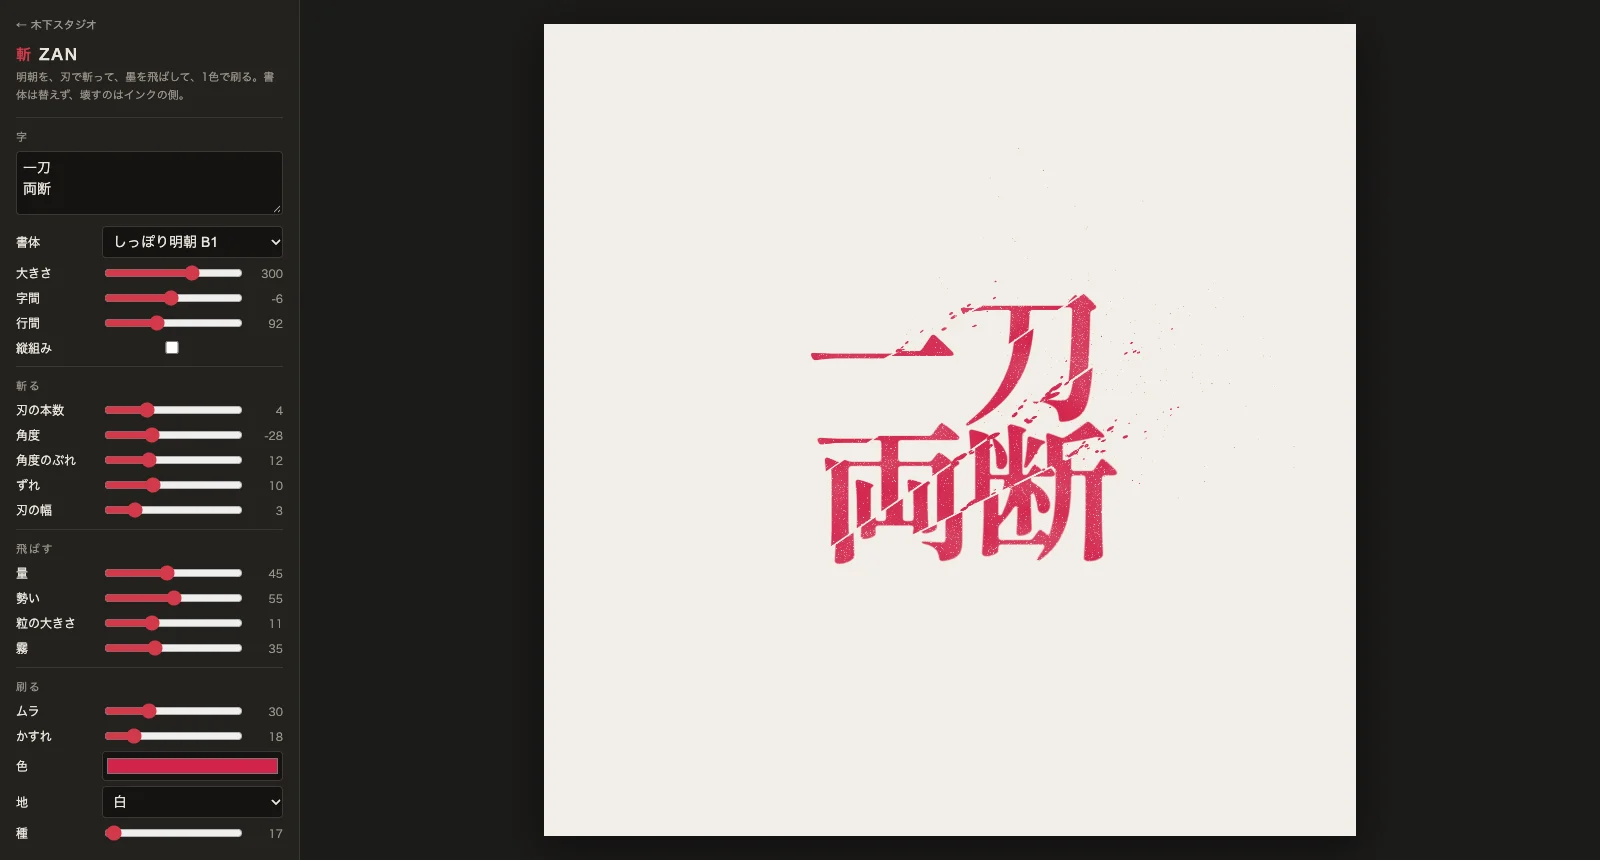
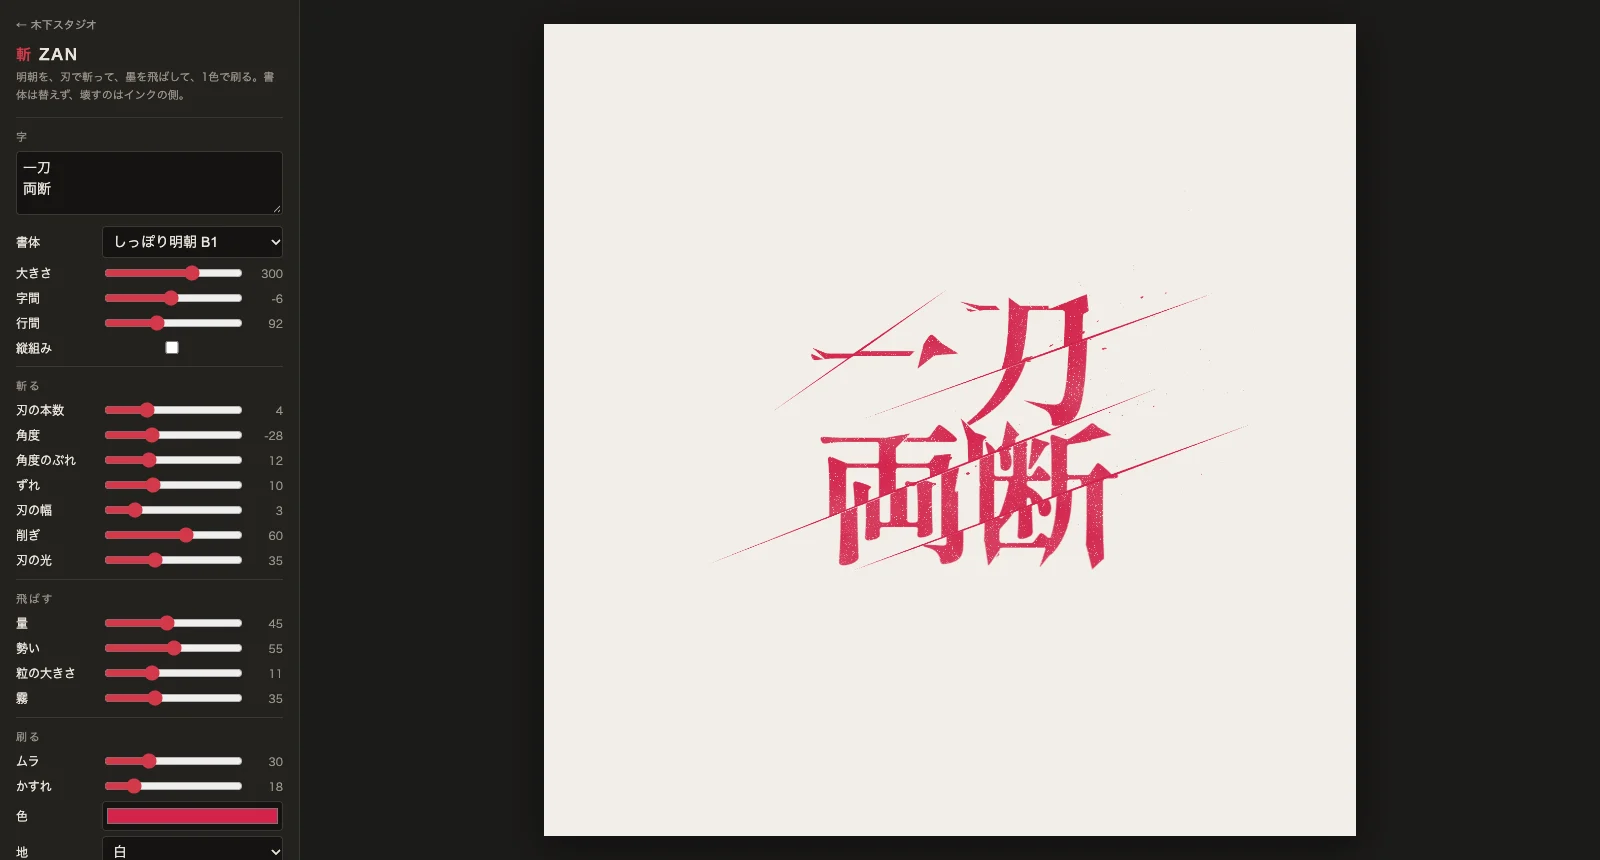
斬 ZAN：削ぎ（止め・はらいの先を刃の側へ尖らせる）と刃の光（刃の線を字の外まで伸ばす）を追加・棚の絵と説明を更新

diff --git a/zan/index.html b/zan/index.html
@@ -53,6 +53,8 @@ canvas{max-width:100%;max-height:100%;box-shadow:0 10px 40px rgba(0,0,0,.45)}
     <label>角度のぶれ<input type="range" id="angj" min="0" max="40" value="12"><span class="v"></span></label>
     <label>ずれ<input type="range" id="shift" min="0" max="30" value="10"><span class="v"></span></label>
     <label>刃の幅<input type="range" id="gap" min="0" max="16" value="3"><span class="v"></span></label>
+    <label>削ぎ<input type="range" id="sogi" min="0" max="100" value="60"><span class="v"></span></label>
+    <label>刃の光<input type="range" id="hikari" min="0" max="100" value="35"><span class="v"></span></label>
   </div>
   <div class="grp"><div class="t">飛ばす</div>
     <label>量<input type="range" id="spl" min="0" max="100" value="45"><span class="v"></span></label>
@@ -68,12 +70,12 @@ canvas{max-width:100%;max-height:100%;box-shadow:0 10px 40px rgba(0,0,0,.45)}
     <label>種<input type="range" id="seed" min="1" max="999" value="17"><span class="v"></span></label>
   </div>
   <div class="row"><button id="re">刃を振り直す</button><button class="p" id="png">PNGで保存</button></div>
-  <p class="lead" style="margin-top:12px">刃は乱数で欠けさせず、線で通す。墨は、刃が字を抜けた所から刃の向きに飛ぶ。</p>
+  <p class="lead" style="margin-top:12px">刃は乱数で欠けさせず、線で通す。墨は、刃が字を抜けた所から刃の向きに飛ぶ。削ぎは字の端（止め・はらい）を刃の側へ尖らせ、刃の光は刃の線を字の外まで伸ばす。</p>
 </div>
 <div id="stage"><canvas id="cv"></canvas></div>
 <script>
 const $=id=>document.getElementById(id);
-const K=['size','track','lead','cuts','ang','angj','shift','gap','spl','force','drop','mist','mura','kasu','seed'];
+const K=['size','track','lead','cuts','ang','angj','shift','gap','sogi','hikari','spl','force','drop','mist','mura','kasu','seed'];
 const W=1600,H=1600; const cv=$('cv'); cv.width=W; cv.height=H; const ctx=cv.getContext('2d');
 let rnd; function seedR(s){let a=s>>>0||1;rnd=()=>{a=(a*1664525+1013904223)>>>0;return a/4294967296}}
 const mk=()=>{const c=document.createElement('canvas');c.width=W;c.height=H;return c};
@@ -119,14 +121,53 @@ function exits(c,cx,cy,th){const d=c.getContext('2d').getImageData(0,0,W,H).data
   const pts=[];let prev=0;for(let t=-W;t<W;t+=3){const x=Math.round(cx+dx*t),y=Math.round(cy+dy*t);if(x<0||y<0||x>=W||y>=H){prev=0;continue}
     const a=d[(y*W+x)*4+3]>100?1:0; if(prev&&!a)pts.push([x,y]); prev=a} return pts}
 
+// 削ぎ：止め・はらいの先（字の端）を見つけ、刃で削いだように斜めの尖りに替える
+// 端＝輪郭の上で、周りの墨が少なく、墨の重心から遠い所（細い横画の脇は重心が近いので拾わない）
+function sogi(c,amt,th,sz){
+  if(amt<=0) return; const g=c.getContext('2d'); const D=g.getImageData(0,0,W,H).data;
+  const s=3, gw=Math.ceil(W/s), gh=Math.ceil(H/s), A=new Uint8Array(gw*gh);
+  for(let y=0;y<gh;y++)for(let x=0;x<gw;x++)A[y*gw+x]=D[((y*s)*W+x*s)*4+3]>100?1:0;
+  const I=new Float64Array((gw+1)*(gh+1)),IX=new Float64Array(I.length),IY=new Float64Array(I.length);
+  for(let y=0;y<gh;y++){let a=0,ax=0,ay=0;for(let x=0;x<gw;x++){const k=A[y*gw+x];a+=k;ax+=k*x;ay+=k*y;const q=(y+1)*(gw+1)+x+1;
+    I[q]=I[q-gw-1]+a;IX[q]=IX[q-gw-1]+ax;IY[q]=IY[q-gw-1]+ay}}
+  const box=(T,x0,y0,x1,y1)=>T[y1*(gw+1)+x1]-T[y0*(gw+1)+x1]-T[y1*(gw+1)+x0]+T[y0*(gw+1)+x0];
+  const R=sz*0.1, r=Math.max(3,Math.round(R/s)), cand=[];
+  for(let y=r+1;y<gh-r-1;y++)for(let x=r+1;x<gw-r-1;x++){if(!A[y*gw+x])continue;
+    if(A[y*gw+x-1]&&A[y*gw+x+1]&&A[(y-1)*gw+x]&&A[(y+1)*gw+x])continue; // 輪郭だけ
+    const x0=x-r,y0=y-r,x1=x+r+1,y1=y+r+1, n=box(I,x0,y0,x1,y1), f=n/((2*r+1)**2); if(f>0.36)continue;
+    const cx=box(IX,x0,y0,x1,y1)/n, cy=box(IY,x0,y0,x1,y1)/n, ox=x-cx, oy=y-cy, l=Math.hypot(ox,oy); if(l<r*0.42)continue;
+    cand.push([f-l/r*0.2,x*s,y*s,ox/l,oy/l])}
+  cand.sort((a,b)=>a[0]-b[0]); const tips=[];
+  for(const c0 of cand){if(tips.some(t=>Math.hypot(t[1]-c0[1],t[2]-c0[2])<R*2.2))continue;tips.push(c0);if(tips.length>160)break}
+  const ink=(x,y)=>{x=Math.round(x);y=Math.round(y);return x>=0&&y>=0&&x<W&&y<H&&D[(y*W+x)*4+3]>100};
+  const bx=Math.cos(th),by=Math.sin(th);
+  for(const [,px,py,ox,oy] of tips){ if(rnd()>amt) continue;
+    const nx=-oy,ny=ox, back=R*0.9, qx=px-ox*back, qy=py-oy*back;
+    if(!ink(qx,qy)) continue; // 端の手前が墨でない＝見誤り
+    let wp=0,wm=0; while(wp<R*1.6&&ink(qx+nx*(wp+1),qy+ny*(wp+1)))wp++; while(wm<R*1.6&&ink(qx-nx*(wm+1),qy-ny*(wm+1)))wm++;
+    if(wp+wm<3) continue;
+    // 尖りは刃の側へ寄せる（削いだ向きがそろうと、同じ1本の刃で削いだに見える）
+    const side=(bx*nx+by*ny)>=0?1:-1, len=R*(0.6+amt*1.1)*(0.7+rnd()*0.6);
+    const tx=qx+ox*len+nx*side*(side>0?wp:wm)*0.85, ty=qy+oy*len+ny*side*(side>0?wp:wm)*0.85;
+    g.save(); g.globalCompositeOperation='destination-out'; g.beginPath(); // 元の端を消す
+    g.moveTo(qx+nx*(wp+2),qy+ny*(wp+2)); g.lineTo(qx+nx*(wp+2)+ox*R*1.7,qy+ny*(wp+2)+oy*R*1.7);
+    g.lineTo(qx-nx*(wm+2)+ox*R*1.7,qy-ny*(wm+2)+oy*R*1.7); g.lineTo(qx-nx*(wm+2),qy-ny*(wm+2)); g.closePath(); g.fill(); g.restore();
+    g.fillStyle='#000'; g.beginPath(); g.moveTo(qx+nx*wp-ox,qy+ny*wp-oy); g.lineTo(tx,ty); g.lineTo(qx-nx*wm-ox,qy-ny*wm-oy); g.closePath(); g.fill();
+  }
+}
+// 刃の線が字のどこからどこまでを通るか（字の外へ光を伸ばす起点）
+function span(c,cx,cy,th){const d=c.getContext('2d').getImageData(0,0,W,H).data;const dx=Math.cos(th),dy=Math.sin(th);let a=null,b=null;
+  for(let t=-W;t<W;t+=3){const x=Math.round(cx+dx*t),y=Math.round(cy+dy*t);if(x<0||y<0||x>=W||y>=H)continue;if(d[(y*W+x)*4+3]>100){if(a===null)a=t;b=t}}
+  return a===null?null:[a,b]}
+
 function render(){
   seedR(v('seed')); K.forEach(k=>{const s=$(k).parentNode.querySelector('.v');if(s)s.textContent=$(k).value});
-  let m=mk(); drawText(m); const bb=bbox(m); if(!bb){ctx.clearRect(0,0,W,H);return}
+  let m=mk(); drawText(m); sogi(m,v('sogi')/100,v('ang')*Math.PI/180,v('size')); const bb=bbox(m); if(!bb){ctx.clearRect(0,0,W,H);return}
   const cuts=v('cuts'), base=v('ang')*Math.PI/180, jit=v('angj')*Math.PI/180, sh=v('shift')/100*v('size')*0.6, gp=v('gap')/100*v('size')*0.5;
   const blades=[];
   for(let i=0;i<cuts;i++){ // 刃は字の中を通るように置く（字の外を斬っても何も起きない）
     const t=(i+0.5)/cuts; const cx=bb.x0+(bb.x1-bb.x0)*(0.15+0.7*rnd()); const cy=bb.y0+(bb.y1-bb.y0)*(t*0.9+0.05+(rnd()-.5)*0.08);
-    const th=base+(rnd()-.5)*2*jit; blades.push([cx,cy,th,exits(m,cx,cy,th)]); // 刃の通り道は楔で抜けるので、抜ける前に探す
+    const th=base+(rnd()-.5)*2*jit; blades.push([cx,cy,th,exits(m,cx,cy,th),span(m,cx,cy,th)]); // 刃の通り道は楔で抜けるので、抜ける前に探す
     m=slash(m,cx,cy,th,sh*(0.5+rnd()),gp*(0.4+rnd()*0.9));
   }
   // 飛ばす
@@ -157,6 +198,13 @@ function render(){
   ig.putImageData(id,0,0);
   ctx.clearRect(0,0,W,H); const pp=$('paper').value; if(pp!=='none'){ctx.fillStyle=pp;ctx.fillRect(0,0,W,H)}
   ctx.drawImage(ink,0,0);
+  // 刃の光：刃の線を字の外まで細く伸ばす。字の近くで太く、外へ行くほど消える。刷りのムラは掛けない（光は版でなく刃）
+  const hk=v('hikari')/100; if(hk>0){ctx.fillStyle=col; const ext=hk*v('size')*2.4, w=Math.max(1.2,v('size')*0.007);
+    blades.forEach(([cx,cy,th,,sp])=>{if(!sp)return; const dx=Math.cos(th),dy=Math.sin(th),nx=-dy,ny=dx;
+      const P=t=>[cx+dx*t,cy+dy*t]; const [a,b]=sp; const e1=ext*(0.5+rnd()*0.7), e2=ext*(0.6+rnd()*0.9);
+      const A=P(a-e1),B=P(a),C=P(b),E=P(b+e2);
+      ctx.beginPath();ctx.moveTo(A[0],A[1]);ctx.lineTo(B[0]+nx*w*0.6,B[1]+ny*w*0.6);ctx.lineTo(C[0]+nx*w,C[1]+ny*w);ctx.lineTo(E[0],E[1]);
+      ctx.lineTo(C[0]-nx*w,C[1]-ny*w);ctx.lineTo(B[0]-nx*w*0.6,B[1]-ny*w*0.6);ctx.closePath();ctx.fill();});}
 }
 async function go(){const [fam,wt]=$('font').value.split('|');try{await document.fonts.load(`${wt} 100px "${fam}"`,$('txt').value||'字')}catch(e){}render()}
 let tm; const later=()=>{clearTimeout(tm);tm=setTimeout(go,30)};

diff --git a/interaction-design.html b/interaction-design.html
@@ -463,7 +463,7 @@
     </div>
     <div class="work-visual">
       <img src="assets/img/img-ui-zan.webp" width="1600" height="860" alt="木下スタジオ（木下貴博 / 滋賀）制作：斬 ZAN — 明朝の字を刃で斬ってずらし、刃が抜けた所から刃の向きに墨を飛ばして1色で刷る題字の道具" class="work-img" loading="lazy">
-      <p class="work-desc">明朝を刃で斬ってずらし、刃の向きに墨を飛ばす題字の道具。書体は替えず、壊すのはインクの側。</p>
+      <p class="work-desc">明朝を刃で斬ってずらし、止めとはらいの先を削いで尖らせ、刃の向きに墨を飛ばす題字の道具。書体は替えず、壊すのはインクの側。</p>
       <a href="zan/" class="work-case-link">触ってみる →</a>
     </div>
   </div>
